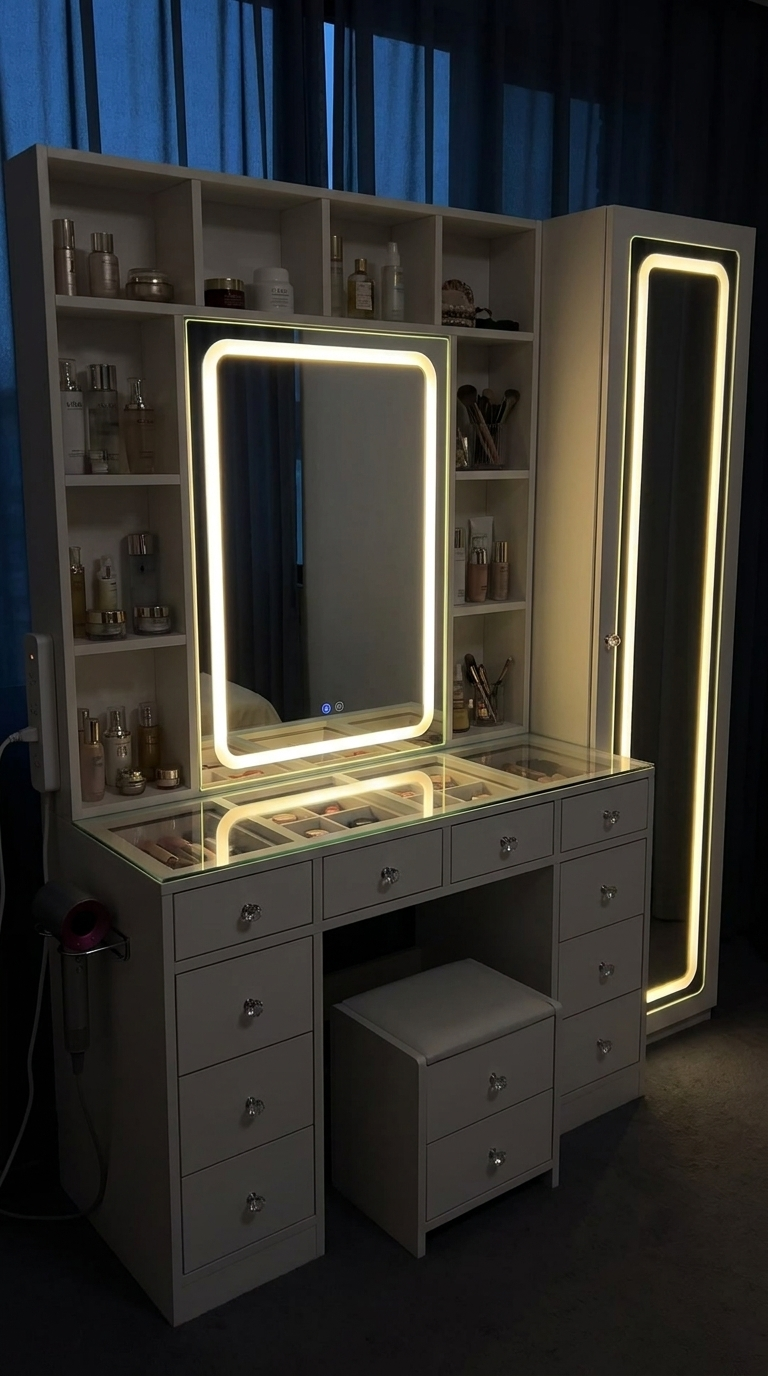
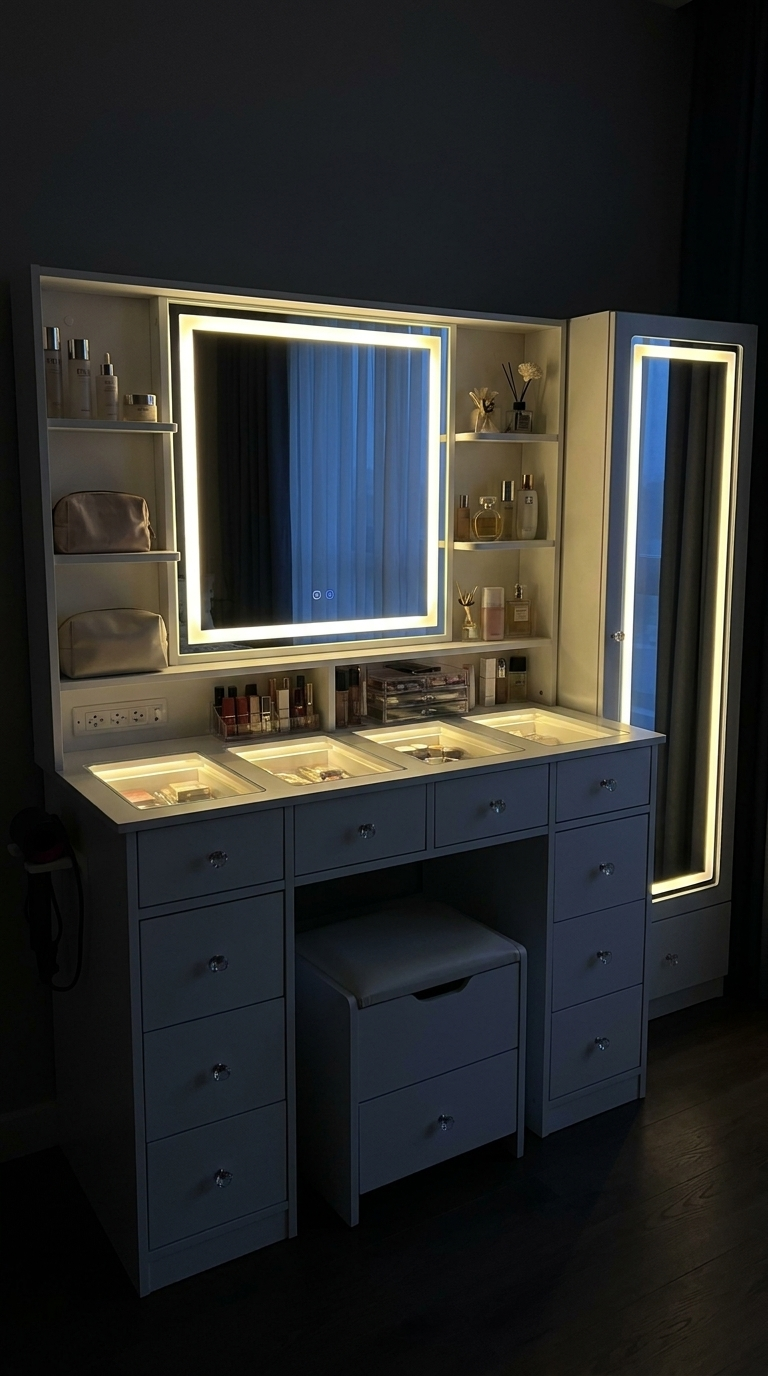
FUSOU vanity: V1S2 redo still drifts; propose editing the real photo instead
Claude-Session: https://claude.ai/code/session_012auCkTthFBPckVJ6EmBFHD

diff --git a/ugc/fusou-vanity/README.md b/ugc/fusou-vanity/README.md
@@ -4,11 +4,12 @@
 4.9★/83, 648 sold, white or black). Brief: Grace's hands only, Grace's own voice, 6 video styles × 6 scripts,
 short, no text burned in (give on-screen text options), share in Drive. Rules: `grace/PLAYBOOK.md`.
 
-Status: **Ralph (2026-10-02): real listing photo = master, Grace's real hand photos (long almond, mauve + white tips; NOT the
-Vicks look), white, bedroom. Video 1 stills made ($0.45, `stills/V1S1-5.png`, `preview/stills_v1.jpg`): HANDS MATCH, but the
-vanity drifts between stills (mirror portrait in S2/S3, squarish in S4/S5, real = landscape ~5:4; hutch layout differs).
-Vanity block rewritten (free) with a landscape mirror + "no recess". Waiting on Ralph: OK to redo V1S2 ($0.09) as the test
-of the new wording before redoing S3-S5 ($0.27). Spent $0.54 of $9.10 (master $0.09 rejected + 5 stills $0.45).**
+Status: **Prompt-only stills do NOT hold the vanity layout (Ralph OK'd a V1S2 redo, $0.09, 2026-10-02): the redo got a
+landscape-ish mirror but lost the top row of 4 cubbies, recessed the mirror, and made the side cabinet short/narrow; the first
+try had the cubbies but a portrait mirror. Also the dusk look turns it blue/near-black. Free dark-grade of the real photo
+tried: not convincing (white furniture stays bright). Spent $0.63 of $9.10 (rejected AI master $0.09 + V1 stills $0.45 +
+V1S2 redo $0.09). Proposed fix, waiting on Ralph: EDIT the real photo instead of regenerating (outpaint the real photo to 9:16,
+add the hand on top, camera front-on like the photo, daylight; dark mood only in close-ups). One test still, $0.09.**
 
 - `scripts.md`: the 6 scripts (time / voice / hands shot), 3 on-screen hook options + post caption per video,
   product facts with sources, research notes. Same content as the Drive doc.
